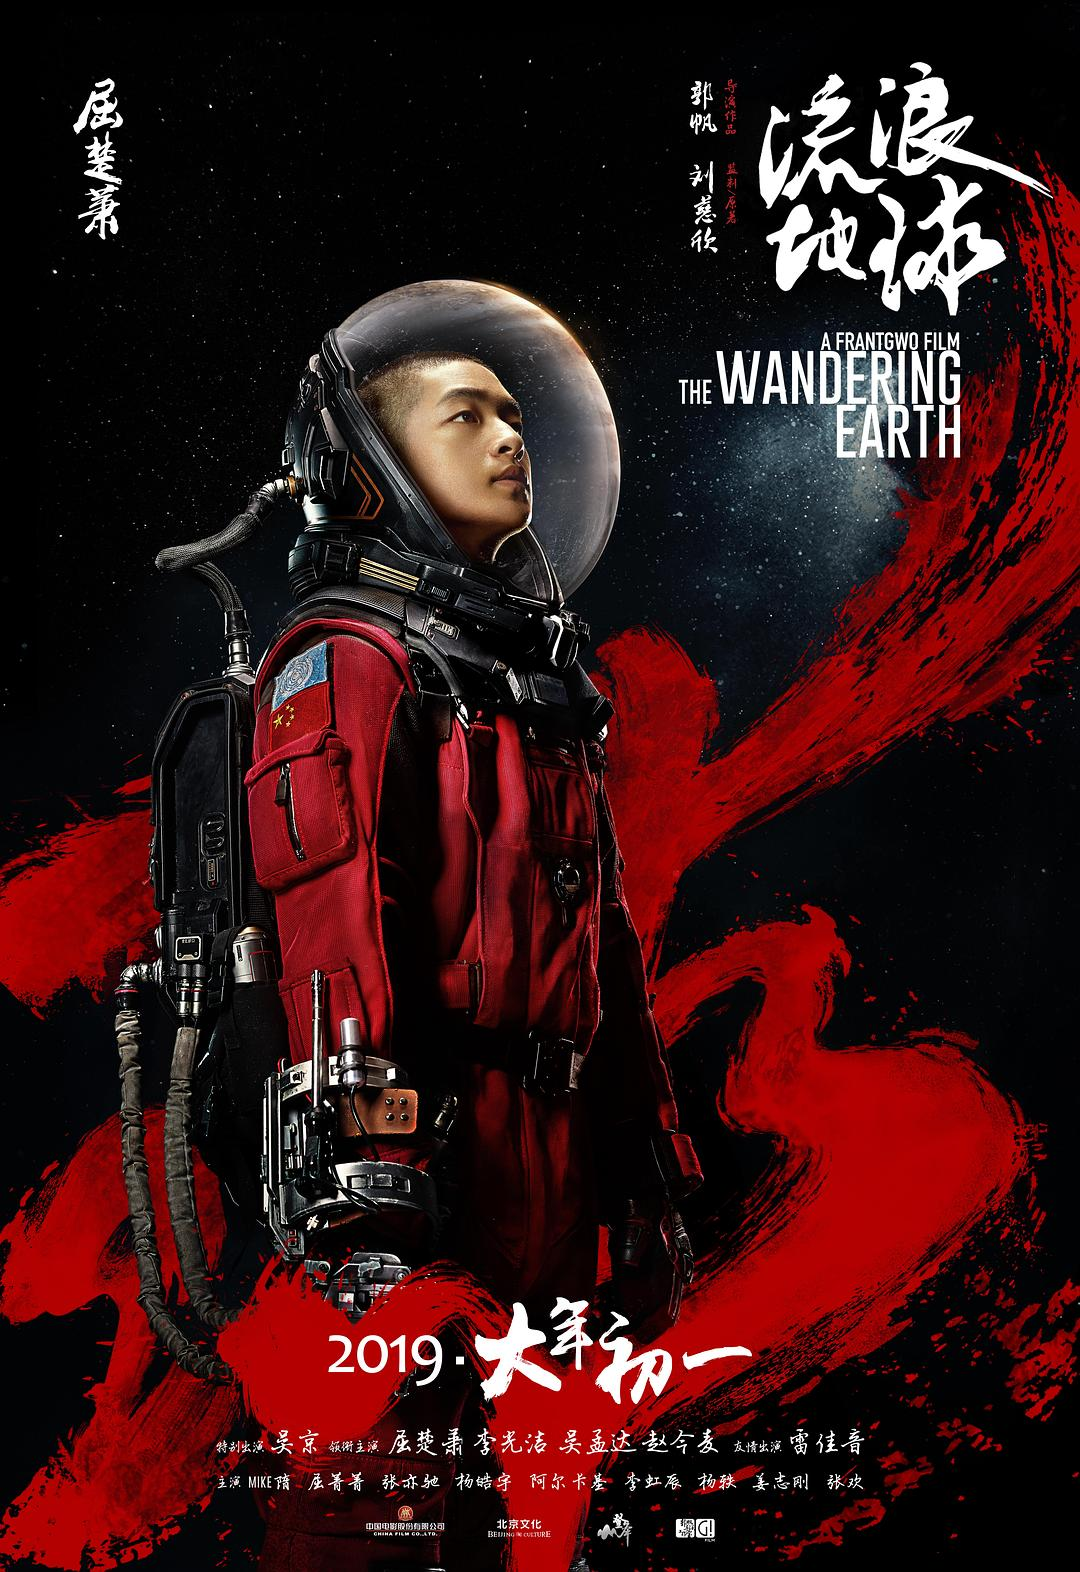
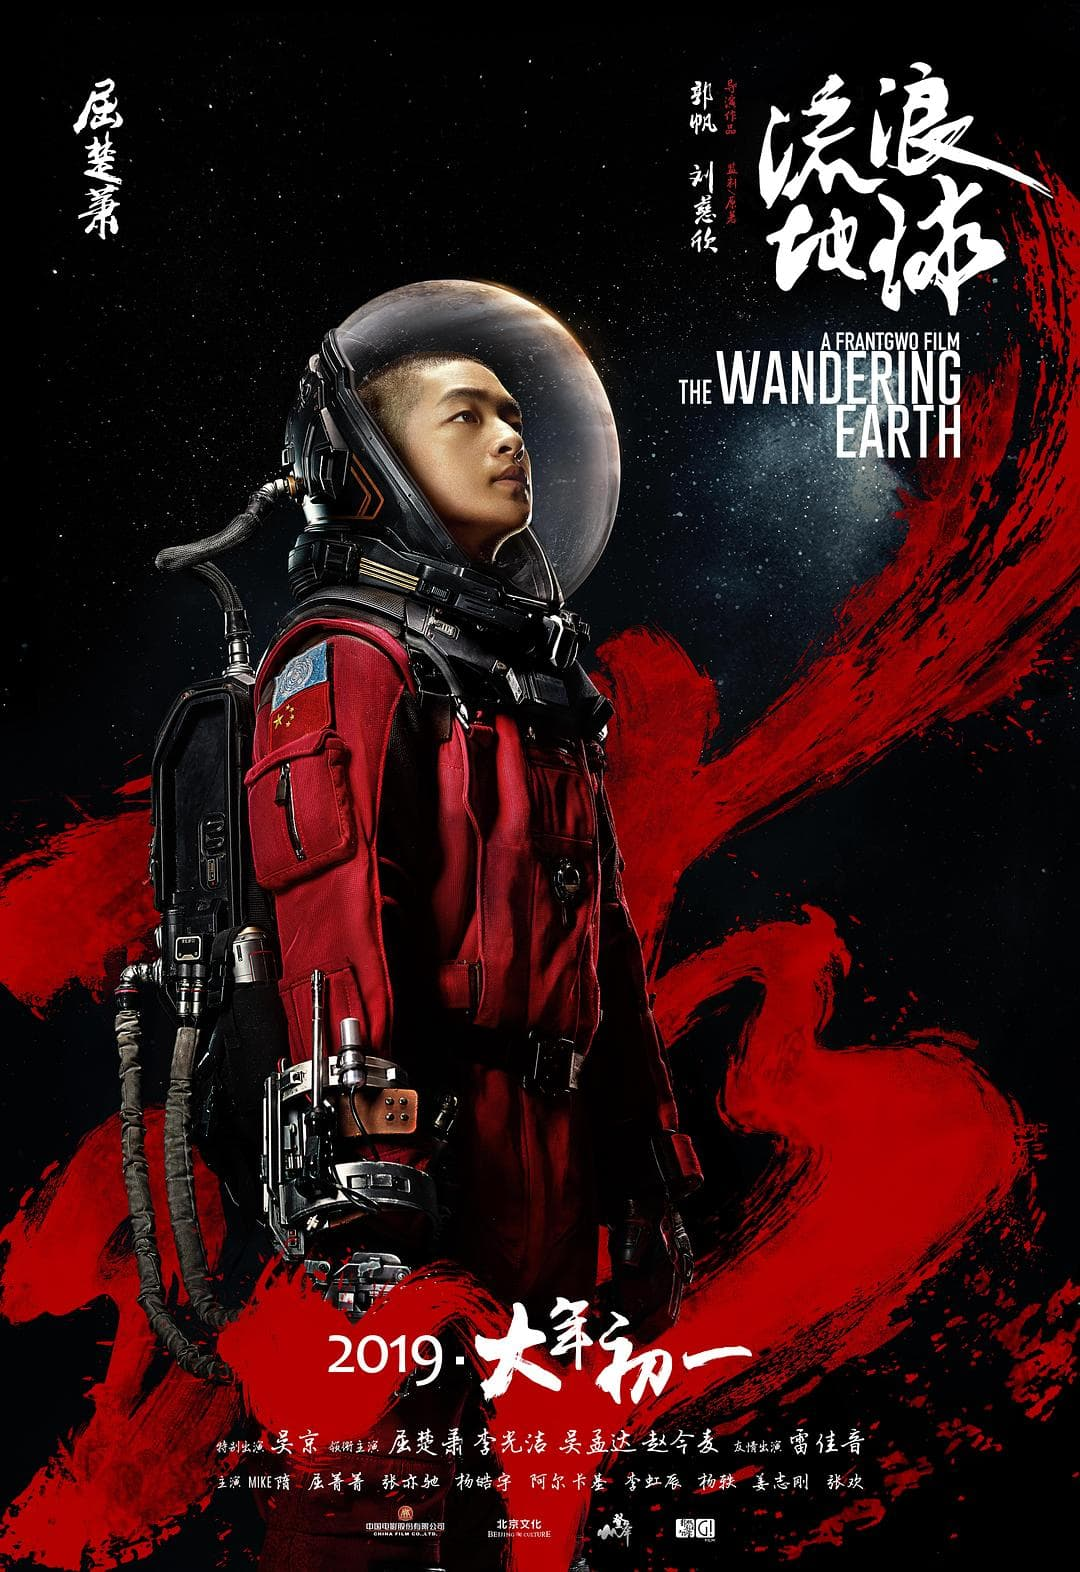
feat: 压缩world中的图片

diff --git a/tool/world/index.html b/tool/world/index.html
@@ -75,7 +75,7 @@
                 <a class="h-full relative" href="/tool/world/figure/">
                     <div class="relative h-full overflow-hidden">
                         <div
-                            class="group-hover:scale-110 group-hover:brightness-100 group-hover:grayscale-0 transition-all duration-500 ease-out h-full brightness-90 grayscale-[50%] bg-cover bg-center bg-[url('/tool/world/img/figure.png')]">
+                            class="group-hover:scale-110 group-hover:brightness-100 group-hover:grayscale-0 transition-all duration-500 ease-out h-full brightness-90 grayscale-[50%] bg-cover bg-center bg-[url('/tool/world/img/figure.jpg')]">
                         </div>
                         <div class="absolute hidden lg:block top-0 bg-gradient-to-b from-black h-[256px] w-full"></div>
                         <div class="absolute hidden lg:block bottom-0 bg-gradient-to-t from-black h-[128px] w-full">
@@ -98,7 +98,7 @@
                 <a class="h-full relative" href="/tool/world/org/">
                     <div class="relative h-full overflow-hidden">
                         <div
-                            class="group-hover:scale-110 group-hover:brightness-100 group-hover:grayscale-0 transition-all duration-500 ease-out h-full brightness-90 grayscale-[50%] bg-cover bg-center bg-[url('/tool/world/img/org.png')]">
+                            class="group-hover:scale-110 group-hover:brightness-100 group-hover:grayscale-0 transition-all duration-500 ease-out h-full brightness-90 grayscale-[50%] bg-cover bg-center bg-[url('/tool/world/img/org.jpg')]">
                         </div>
                         <div class="absolute hidden lg:block top-0 bg-gradient-to-b from-black h-[256px] w-full"></div>
                         <div class="absolute hidden lg:block bottom-0 bg-gradient-to-t from-black h-[128px] w-full">
@@ -121,7 +121,7 @@
                 <a class="h-full relative" href="/tool/world/event/">
                     <div class="relative h-full overflow-hidden">
                         <div
-                            class="group-hover:scale-110 group-hover:brightness-100 group-hover:grayscale-0 transition-all duration-500 ease-out h-full brightness-90 grayscale-[50%] bg-cover bg-center bg-[url('/tool/world/img/event.png')]">
+                            class="group-hover:scale-110 group-hover:brightness-100 group-hover:grayscale-0 transition-all duration-500 ease-out h-full brightness-90 grayscale-[50%] bg-cover bg-center bg-[url('/tool/world/img/event.jpg')]">
                         </div>
                         <div class="absolute hidden lg:block top-0 bg-gradient-to-b from-black h-[256px] w-full"></div>
                         <div class="absolute hidden lg:block bottom-0 bg-gradient-to-t from-black h-[128px] w-full">

diff --git a/tool/world/figure/data.js b/tool/world/figure/data.js
@@ -7,7 +7,7 @@ document.addEventListener('DOMContentLoaded', function () {
         "item1": {
             name: "刘培强",
             bio: "男，军衔中校，生理年龄40岁（因为在太空中进入休眠状态），实际年龄52岁，领航员国际空间站中的中国航天员，机械工程专家航空飞行专业，军人家庭出身，父母早早双亡，为张鹏徒弟。在2044年太空电梯危机中立功，曾参与逐月计划。领航员国际空间站中的中国航天员。因为执行任务，使得孩子的成长过程中缺少陪伴，导致父子关系疏远。2075年2月15日为拯救地球驾驶领航员国际空间站冲击发动机火焰，点燃木星，壮烈牺牲。",
-            imageUrl: "/tool/world/img/figure/刘培强.png",
+            imageUrl: "/tool/world/img/figure/刘培强.jpg",
             age: "40"
         },
         "item2": {

diff --git a/tool/world/event/data.js b/tool/world/event/data.js
@@ -7,7 +7,7 @@ document.addEventListener('DOMContentLoaded', function () {
         "item1": {
             name: "2044太空电梯危机",
             bio: "",
-            imageUrl: "/tool/world/img/figure/刘培强.png",
+            imageUrl: "/tool/world/img/figure/刘培强.jpg",
         },
         "item2": {
             name: "2058月球坠落危机",

diff --git a/tool/world/org/data.js b/tool/world/org/data.js
@@ -7,7 +7,7 @@ document.addEventListener('DOMContentLoaded', function () {
         "item1": {
             name: "UEG",
             bio: "",
-            imageUrl: "/tool/world/img/figure/刘培强.png",
+            imageUrl: "/tool/world/img/figure/刘培强.jpg",
         },
     };
 
